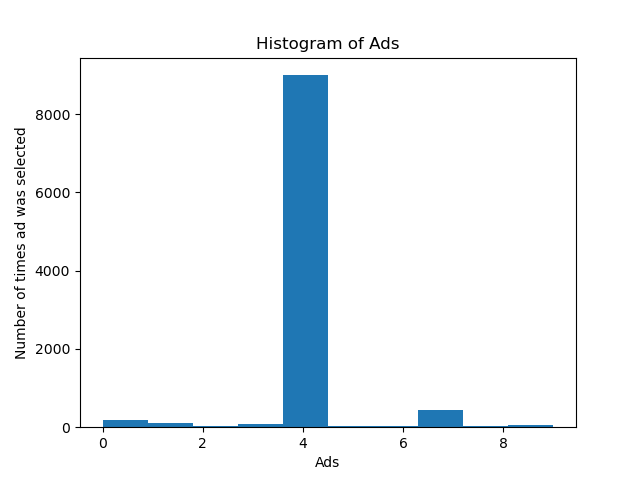
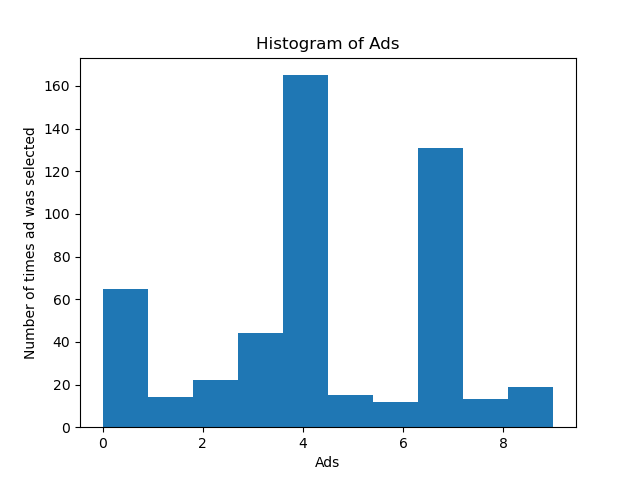
added the changes for thompson sampling

diff --git a/reinforcement/thompsonsamplingalgo/thompsonsampling.py b/reinforcement/thompsonsamplingalgo/thompsonsampling.py
@@ -10,7 +10,7 @@ dataset = pd.read_csv('Ads_CTR_Optimisation.csv')
 
 import random
 
-N = 10000  # these are no of users
+N = 500  # these are no of users
 d = 10  # number of the ads
 ads_selected = []
 number_of_rewards_1 = [0] * d
